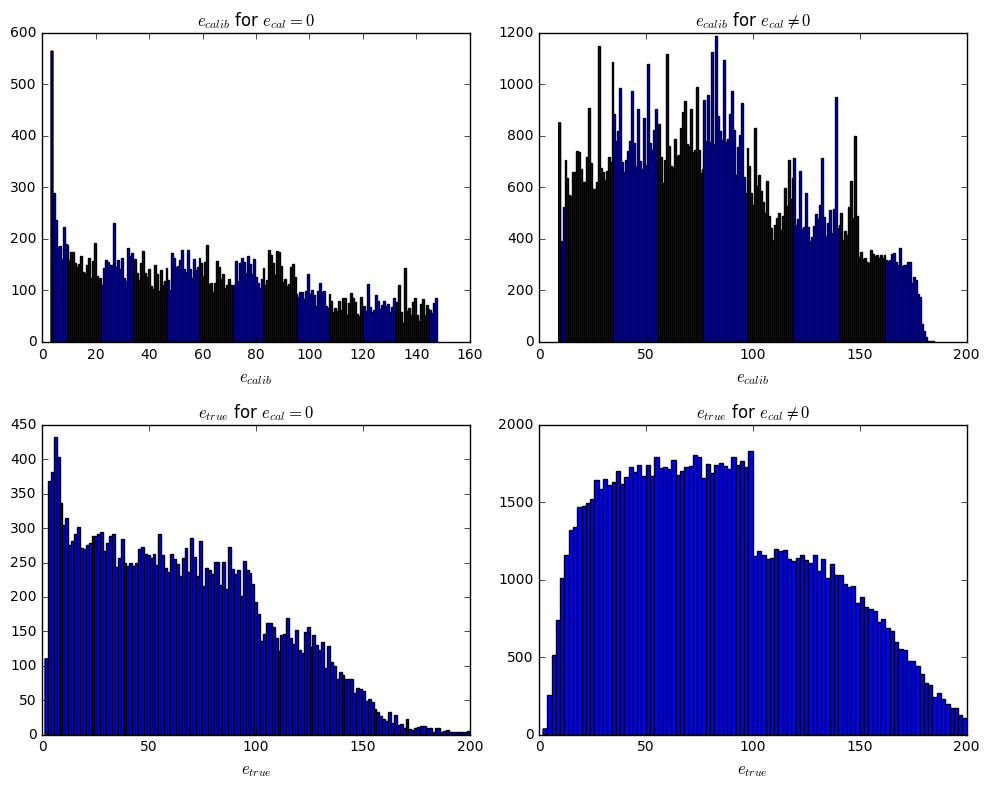
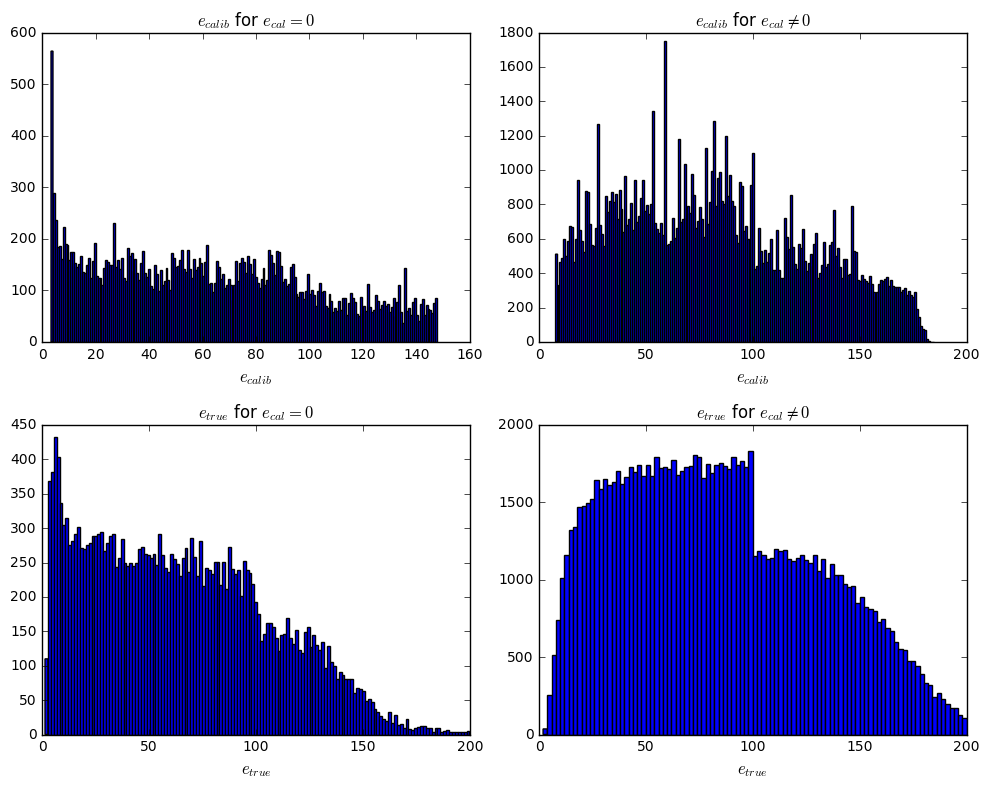
README.md index.md

Changed region(s): [[0.5152, 0.0608, 0.9394, 0.4563]]

diff --git a/test_KNNGF.py b/test_KNNGF.py
@@ -34,7 +34,7 @@ data1,data2 = data1.splitInTwo()
 # parameters of the calibration
 lim = 150                   # if ecal + hcal > lim, ecalib = math.nan
 n_neighbors_ecal_eq_0=2000  # number of neighbors for ecal = 0
-n_neighbors_ecal_neq_0=1000  # number of neighbors for ecal ≠ 0
+n_neighbors_ecal_neq_0=500  # number of neighbors for ecal ≠ 0
 energystep = 1
 # We create the calibration
 KNNGF = data1.KNNGaussianFit(n_neighbors_ecal_eq_0=n_neighbors_ecal_eq_0,
@@ -176,7 +176,7 @@ plt.axis([0,lim,0,lim])
 #neigh for ecal != 0
 KNNGF = data1.KNNGaussianFit(n_neighbors_ecal_eq_0=n_neighbors_ecal_eq_0,
                              n_neighbors_ecal_neq_0=n_neighbors_ecal_neq_0,
-                             lim=lim,energystep=10,kind='cubic')
+                             lim=lim,energystep=14,kind='cubic')
 neigh_ecal_ecal_neq_0 = np.array(KNNGF.evaluatedPoint_neighbours_ecal)
 neigh_ecal_ecal_neq_0 = neigh_ecal_ecal_neq_0[np.array(KNNGF.evaluatedPoint_ecal)+np.array(KNNGF.evaluatedPoint_hcal)<lim]
 neigh_hcal_ecal_neq_0 = np.array(KNNGF.evaluatedPoint_neighbours_hcal)

diff --git a/README.md b/README.md
@@ -48,7 +48,7 @@ data1,data2 = data1.splitInTwo()
 # parameters of the calibration
 lim = 150                   # if ecal + hcal > lim, ecalib = math.nan
 n_neighbors_ecal_eq_0=2000  # number of neighbors for ecal = 0
-n_neighbors_ecal_neq_0=250  # number of neighbors for ecal ≠ 0
+n_neighbors_ecal_neq_0=500  # number of neighbors for ecal ≠ 0
 energystep = 1
 # We create the calibration
 calibration = data1.KNNGaussianFit(n_neighbors_ecal_eq_0=n_neighbors_ecal_eq_0,

diff --git a/index.md b/index.md
@@ -48,7 +48,7 @@ data1,data2 = data1.splitInTwo()
 # parameters of the calibration
 lim = 150                   # if ecal + hcal > lim, ecalib = math.nan
 n_neighbors_ecal_eq_0=2000  # number of neighbors for ecal = 0
-n_neighbors_ecal_neq_0=250  # number of neighbors for ecal ≠ 0
+n_neighbors_ecal_neq_0=500  # number of neighbors for ecal ≠ 0
 energystep = 1
 # We create the calibration
 calibration = data1.KNNGaussianFit(n_neighbors_ecal_eq_0=n_neighbors_ecal_eq_0,
